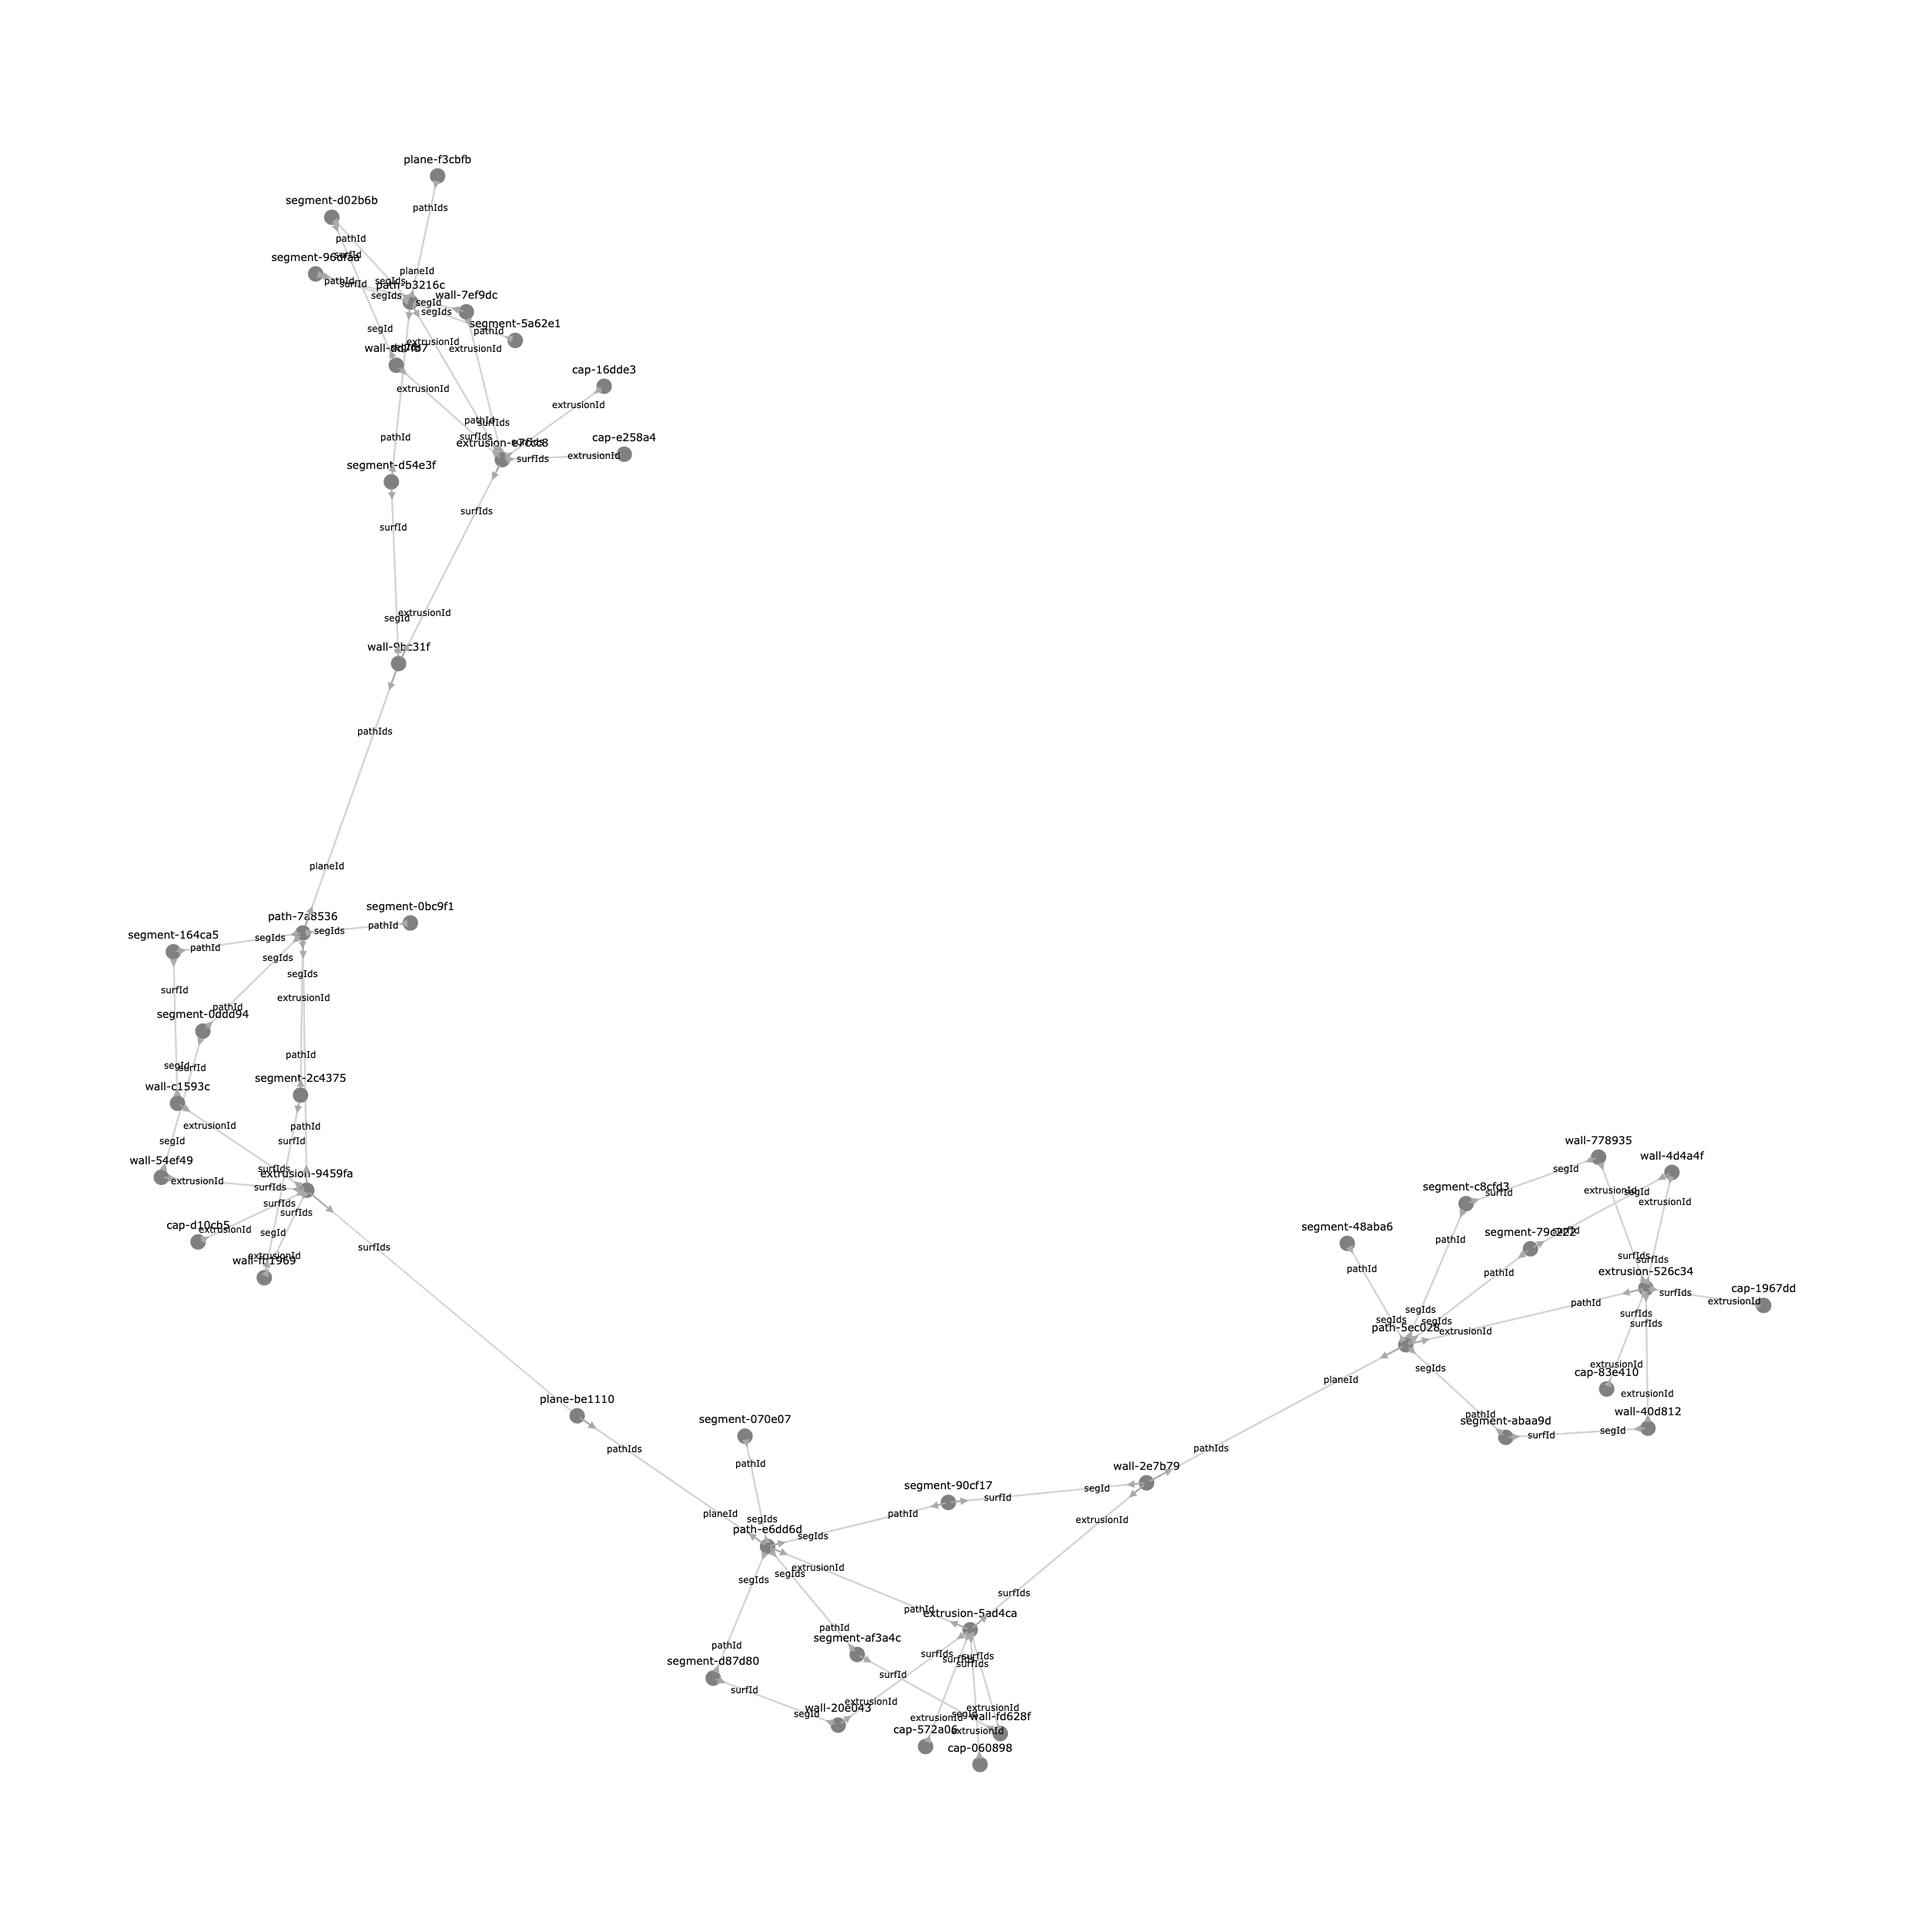
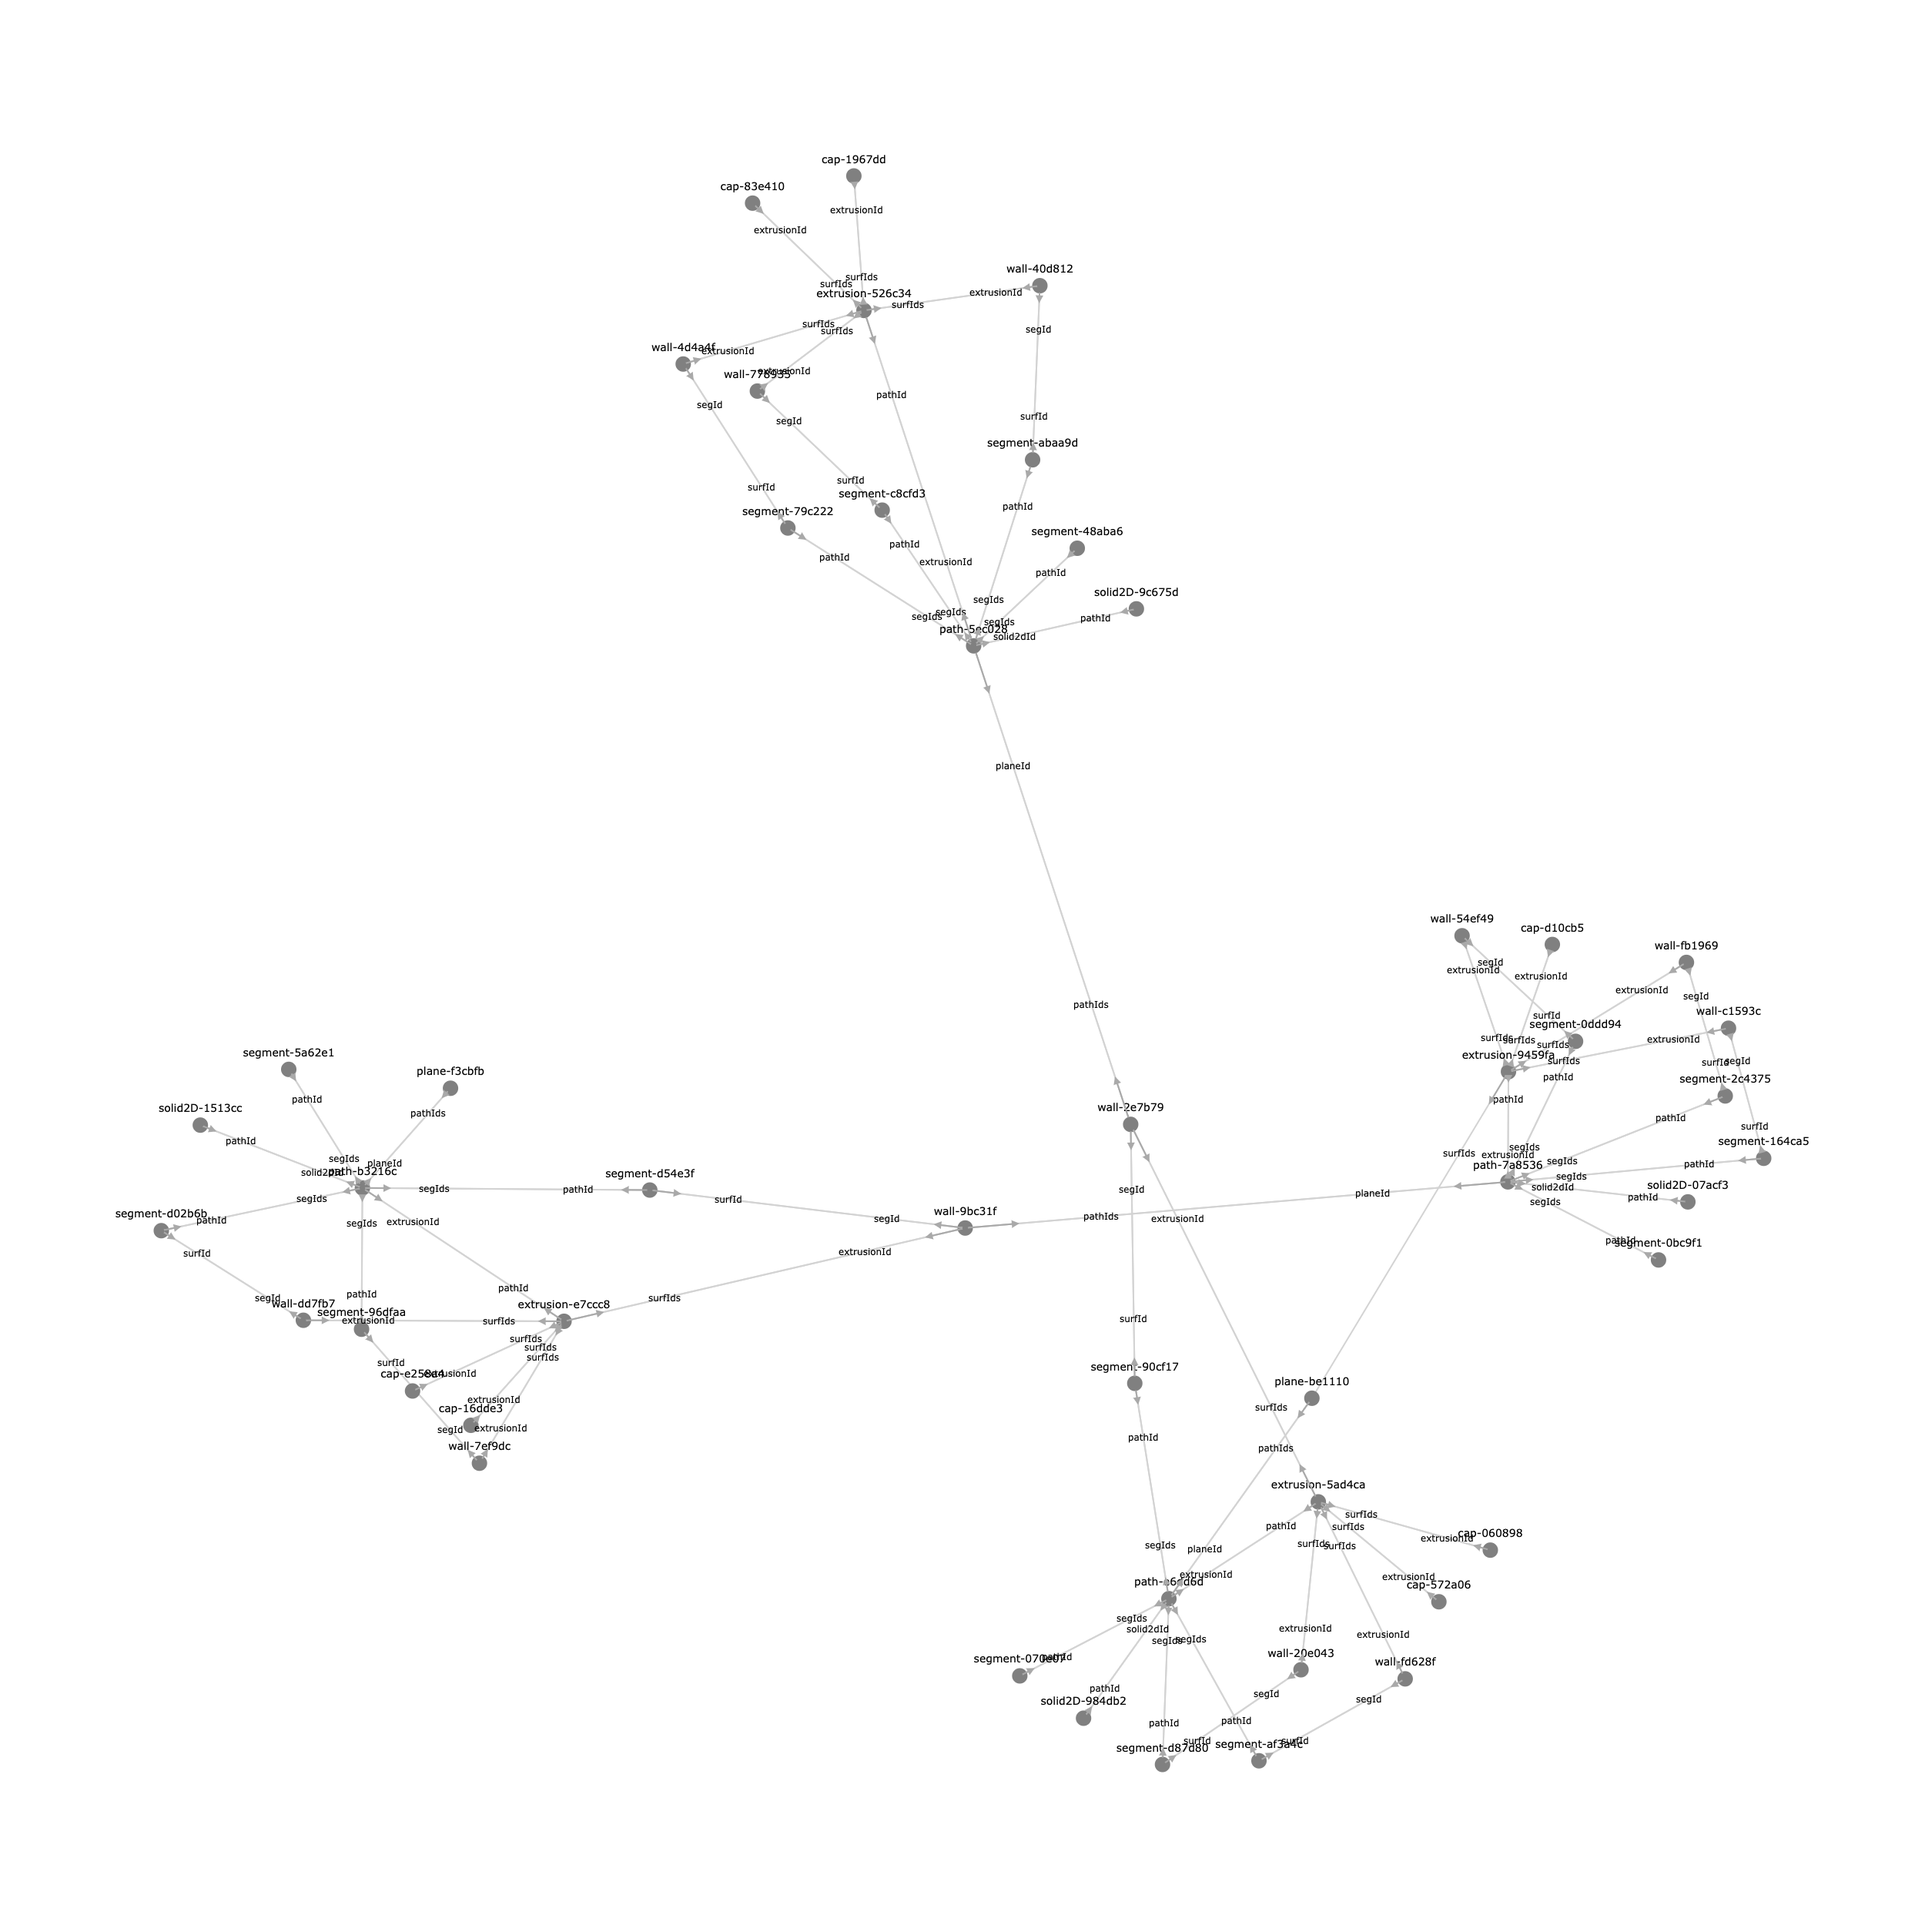
add in solid 2d data into artifactMap

diff --git a/src/lang/std/artifactMap.ts b/src/lang/std/artifactMap.ts
@@ -24,7 +24,13 @@ export interface _PathArtifact {
   planeId: string
   segIds: Array<string>
   extrusionId: string
+  solid2dId?: string
   codeRef: CommonCommandProperties
+}
+
+interface _solid2D {
+  type: 'solid2D'
+  pathId: string
 }
 export interface PathArtifact {
   type: 'path'
@@ -114,6 +120,7 @@ export type Artifact =
   | _ExtrudeEdge
   | _Blend
   | BlendEdge
+  | _solid2D
 
 export type ArtifactMap = Map<string, Artifact>
 
@@ -215,16 +222,21 @@ export function createArtifactMap({
           ...path,
           segIds: [...path.segIds, id],
         })
-      // if (
-      //   response.type === 'modeling' &&
-      //   response.data.modeling_response.type === 'close_path'
-      // ) {
-      //   // TODO: the face_id should be the solid2d face, which should be added to the artifactMap
-      //   console.log(
-      //     'close face_id should be solid2d',
-      //     response.data.modeling_response.data.face_id
-      //   )
-      // }
+      if (
+        response.type === 'modeling' &&
+        response.data.modeling_response.type === 'close_path'
+      ) {
+        myMap.set(response.data.modeling_response.data.face_id, {
+          type: 'solid2D',
+          pathId: pathId,
+        })
+        const path = myMap.get(pathId)
+        if (path?.type === 'path')
+          myMap.set(pathId, {
+            ...path,
+            solid2dId: response.data.modeling_response.data.face_id,
+          })
+      }
     } else if (cmd.type === 'extrude') {
       myMap.set(id, {
         type: 'extrusion',
@@ -457,6 +469,15 @@ export function getCapCodeRef(
   const extrusion = getArtifactOfType(cap.extrusionId, artifactMap, 'extrusion')
   if (err(extrusion)) return extrusion
   const path = getArtifactOfType(extrusion.pathId, artifactMap, 'path')
+  if (err(path)) return path
+  return path.codeRef
+}
+
+export function getSolid2dCodeRef(
+  solid2D: _solid2D,
+  artifactMap: ArtifactMap
+): CommonCommandProperties | Error {
+  const path = getArtifactOfType(solid2D.pathId, artifactMap, 'path')
   if (err(path)) return path
   return path.codeRef
 }

diff --git a/src/lib/selections.ts b/src/lib/selections.ts
@@ -33,6 +33,7 @@ import {
   getArtifactOfTypes,
   getArtifactsOfType,
   getCapCodeRef,
+  getSolid2dCodeRef,
   getWallCodeRef,
 } from 'lang/std/artifactMap'
 
@@ -47,6 +48,7 @@ export type Selection = {
     | 'line-end'
     | 'line-mid'
     | 'extrude-wall'
+    | 'solid2D'
     | 'start-cap'
     | 'end-cap'
     | 'point'
@@ -113,6 +115,20 @@ export async function getEventForSelectWithPoint(
     }
   }
   if (_artifact) {
+    if (_artifact.type === 'solid2D') {
+      const codeRef = getSolid2dCodeRef(
+        _artifact,
+        engineCommandManager.artifactMap
+      )
+      if (err(codeRef)) return null
+      return {
+        type: 'Set selection',
+        data: {
+          selectionType: 'singleCodeCursor',
+          selection: { range: codeRef.range, type: 'solid2D' },
+        },
+      }
+    }
     if (_artifact.type === 'cap') {
       const codeRef = getCapCodeRef(_artifact, engineCommandManager.artifactMap)
       if (err(codeRef)) return null
@@ -543,6 +559,17 @@ function codeToIdSelections(
         if (type === 'default' && entry.artifact.type === 'segment') {
           bestCandidate = entry
           return
+        }
+        if (type === 'solid2D' && entry.artifact.type === 'path') {
+          const solid = engineCommandManager.artifactMap.get(
+            entry.artifact.solid2dId || ''
+          )
+          if (solid?.type !== 'solid2D') return
+          bestCandidate = {
+            artifact: solid,
+            selection: { type, range, ...rest },
+            id: entry.artifact.solid2dId,
+          }
         }
         if (type === 'extrude-wall' && entry.artifact.type === 'segment') {
           const wall = engineCommandManager.artifactMap.get(

diff --git a/src/hooks/useEngineConnectionSubscriptions.ts b/src/hooks/useEngineConnectionSubscriptions.ts
@@ -5,6 +5,7 @@ import { getEventForSelectWithPoint } from 'lib/selections'
 import {
   getCapCodeRef,
   getExtrusionFromSuspectedExtrudeSurface,
+  getSolid2dCodeRef,
   getWallCodeRef,
 } from 'lang/std/artifactMap'
 import { err } from 'lib/trap'
@@ -21,7 +22,14 @@ export function useEngineConnectionSubscriptions() {
       callback: ({ data }) => {
         if (data?.entity_id) {
           const artifact = engineCommandManager.artifactMap.get(data.entity_id)
-          if (artifact?.type === 'cap') {
+          if (artifact?.type === 'solid2D') {
+            const codeRef = getSolid2dCodeRef(
+              artifact,
+              engineCommandManager.artifactMap
+            )
+            if (err(codeRef)) return
+            editorManager.setHighlightRange([codeRef.range])
+          } else if (artifact?.type === 'cap') {
             const codeRef = getCapCodeRef(
               artifact,
               engineCommandManager.artifactMap

diff --git a/src/lib/commandBarConfigs/modelingCommandConfig.ts b/src/lib/commandBarConfigs/modelingCommandConfig.ts
@@ -202,7 +202,8 @@ export const modelingMachineCommandConfig: StateMachineCommandSetConfig<
           'default',
           'line-end',
           'line-mid',
-          'extrude-wall', // to fix: accespts only this selection type
+          'extrude-wall', // to fix: accepts only this selection type
+          'solid2D',
           'start-cap',
           'end-cap',
           'point',
